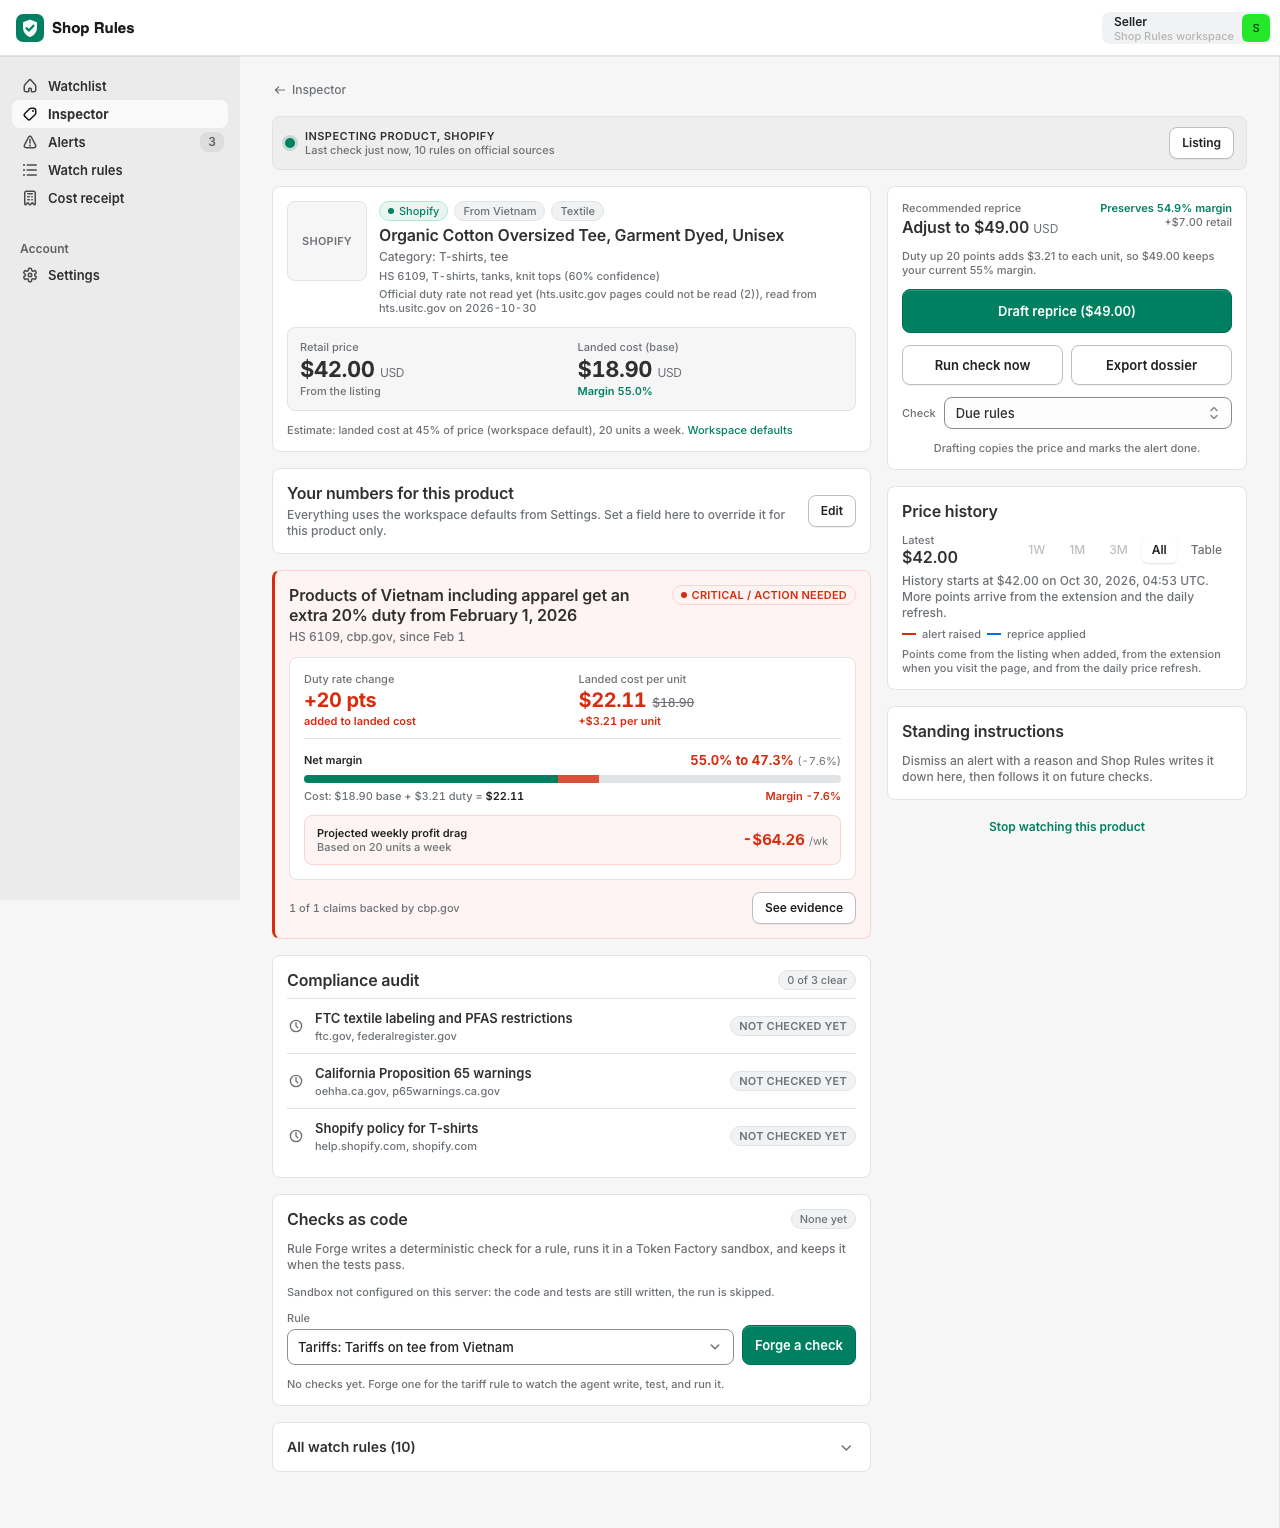
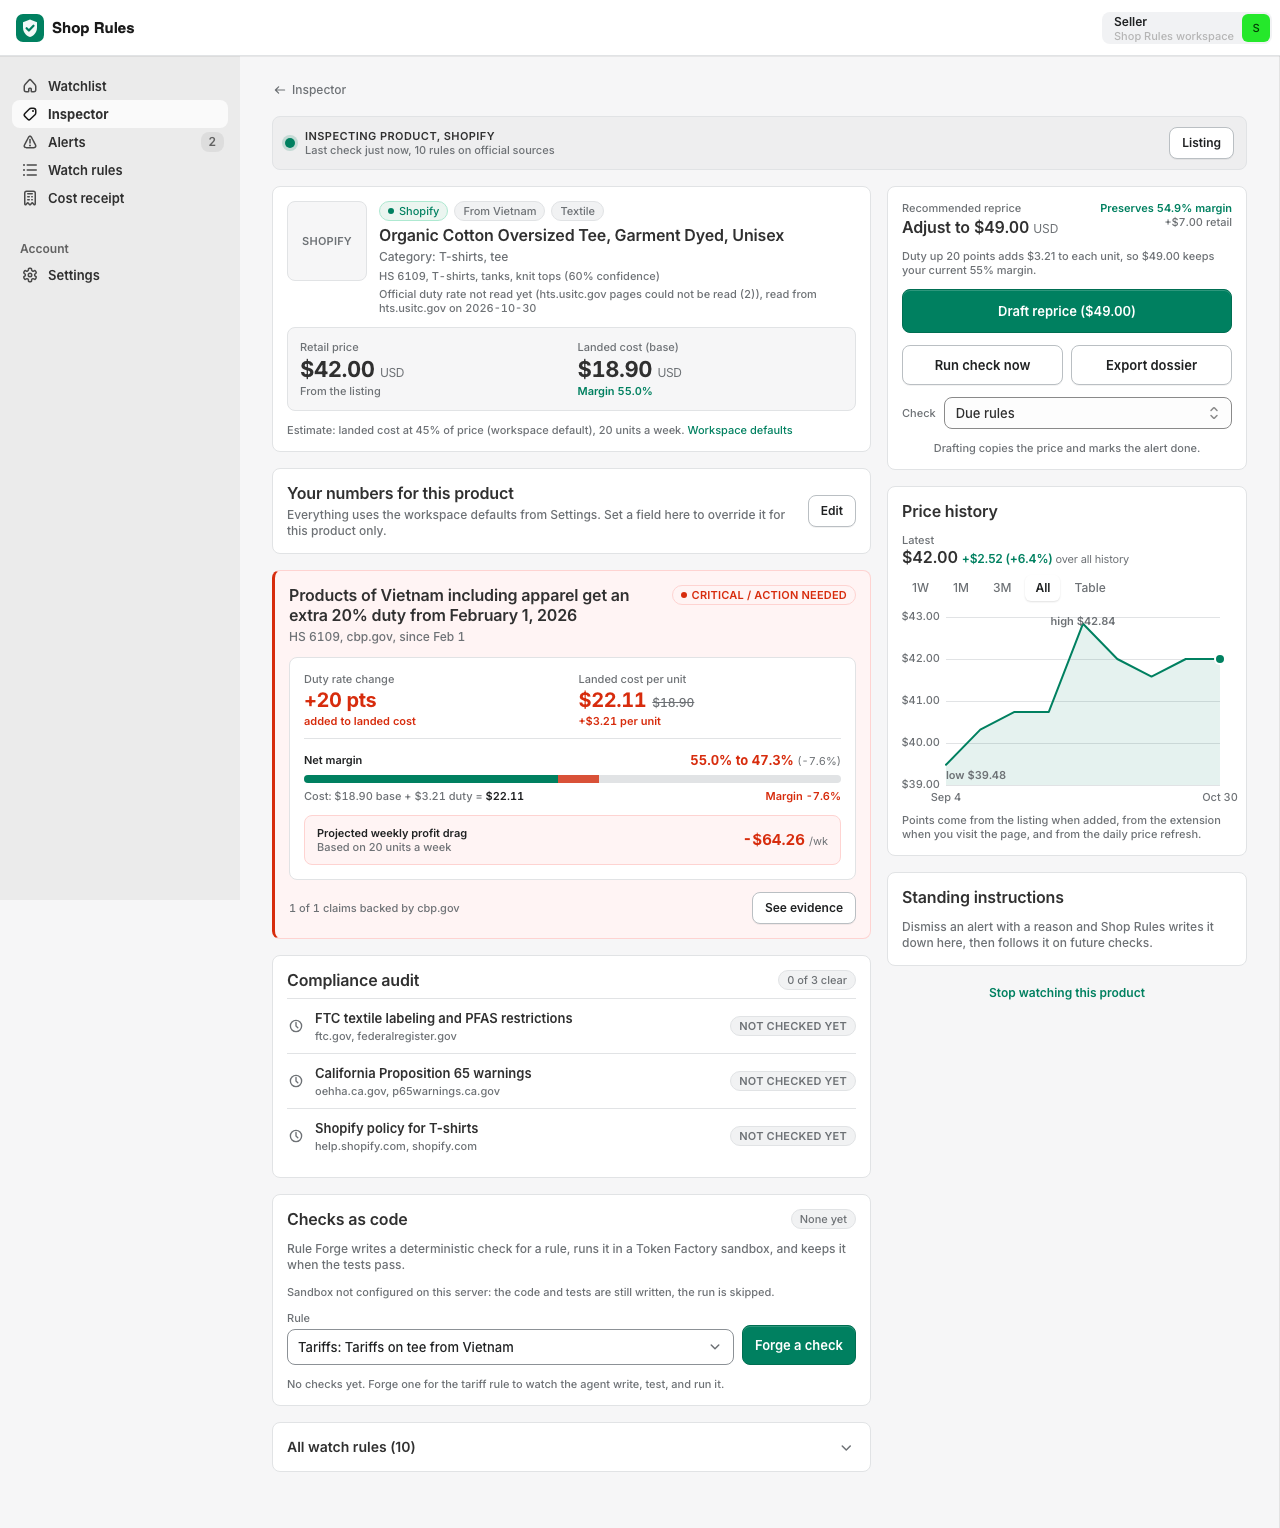
Dedupe alerts within a check batch, labelled demo price history in demo mode, rules rows without the repeated product link

Changed region(s): [[0.6875, 0.3384, 0.9688, 0.5537], [0.6875, 0.5844, 0.8438, 0.6152], [0.7812, 0.6459, 0.875, 0.6767]]

diff --git a/apps/web/src/app/api/demo/seed/route.ts b/apps/web/src/app/api/demo/seed/route.ts
@@ -1,6 +1,8 @@
 import { ApiError, currentAccount, fail, json } from "@/lib/account";
 import { consumeQuota, findProductByUrl } from "@/lib/db";
 import { ingestProduct, normalizeListingUrl, runChecks, type PageFields } from "@/lib/pipeline";
+import { offlineMode } from "@/lib/offline";
+import { insertPrice } from "@/lib/db";
 
 export const dynamic = "force-dynamic";
 export const maxDuration = 120;
@@ -67,6 +69,17 @@ export async function POST() {
         const r = await ingestProduct(account, item.url, item.page);
         products.push(r.product);
         fresh += 1;
+        // Demo mode only: eight weeks of labelled "demo" price points so the
+        // chart, sparklines, and change-since-added have something to show.
+        // Live workspaces get history from the listing, the extension, and the daily refresh.
+        if (offlineMode().models === "canned" && typeof item.page.price === "number") {
+          const base = item.page.price;
+          const wobble = [0.94, 0.96, 0.97, 0.97, 1.02, 1.0, 0.99, 1.0];
+          for (let w = 0; w < wobble.length; w++) {
+            const at = new Date(Date.now() - (wobble.length - w) * 7 * 86400000).toISOString();
+            await insertPrice({ account_id: account.id, product_id: r.product.id, price: Math.round(base * wobble[w] * 100) / 100, currency: item.page.currency ?? "USD", source: "demo", at });
+          }
+        }
       } catch (err) {
         if (err instanceof ApiError && err.status === 429) throw err;
         errors.push(err instanceof Error ? err.message : String(err));

diff --git a/apps/web/src/lib/pipeline.ts b/apps/web/src/lib/pipeline.ts
@@ -459,6 +459,25 @@ export async function runChecks(account: AccountRow, product: ProductRow, opts: 
     if (outcome.status === "unchanged") skipped += 1;
     if (outcome.alert) alerts.push(outcome.alert);
   }
+  // Rules run three at a time, so two rules on the same product can surface the
+  // same notice before either alert is written. Keep the first of any pair with
+  // the same headline, or the same family, rate, and date.
+  const seenKeys = new Set<string>();
+  const kept: AlertRow[] = [];
+  for (const a of alerts) {
+    const headlineKey = `h:${a.headline.toLowerCase().replace(/[^a-z0-9 ]+/g, " ").replace(/\s+/g, " ").trim()}`;
+    const factKey = a.impact.tariff_rate_change_pct != null || a.impact.effective_date ? `f:${a.family}:${a.impact.tariff_rate_change_pct}:${a.impact.effective_date}:${a.impact.estimated_cost_change_pct}` : null;
+    if (seenKeys.has(headlineKey) || (factKey && seenKeys.has(factKey))) {
+      const patch = rulePatches.find((p) => p.id === a.rule_id);
+      if (patch) patch.patch.last_headline = `${a.headline} (same finding as another rule on this product)`;
+      continue;
+    }
+    seenKeys.add(headlineKey);
+    if (factKey) seenKeys.add(factKey);
+    kept.push(a);
+  }
+  alerts.length = 0;
+  alerts.push(...kept);
 
   let saved: AlertRow[] = [];
   try {

diff --git a/apps/web/src/lib/db.ts b/apps/web/src/lib/db.ts
@@ -839,8 +839,8 @@ export async function deleteForge(accountId: string, id: string): Promise<void> 
 
 // Price history
 
-export async function insertPrice(row: { account_id: string; product_id: string; price: number; currency: string | null; source: string }): Promise<void> {
-  const price: PriceRow = { id: uid(), product_id: row.product_id, price: row.price, currency: row.currency, source: row.source, at: now() };
+export async function insertPrice(row: { account_id: string; product_id: string; price: number; currency: string | null; source: string; at?: string }): Promise<void> {
+  const price: PriceRow = { id: uid(), product_id: row.product_id, price: row.price, currency: row.currency, source: row.source, at: row.at ?? now() };
   await mutate(row.account_id, (ws) => {
     ws.prices.push(price);
   });

diff --git a/apps/web/src/app/rules/page.tsx b/apps/web/src/app/rules/page.tsx
@@ -177,9 +177,6 @@ export default function RulesPage() {
                         {r.paused ? <StatusPill tone="warning">Paused</StatusPill> : r.last_run_at ? <StatusPill tone="success">Checked</StatusPill> : <StatusPill>Queued</StatusPill>}
                       </div>
                     </div>
-                    <NextLink href={`/products/${r.product_id}`} className="sr-link" style={{ fontSize: 12, display: "block" }}>
-                      {r.product_title || "Product"}
-                    </NextLink>
                     <p className="sr-xs sr-num">
                       {r.include_domains.join(", ")}. Last run {timeAgo(r.last_run_at)}.
                     </p>
